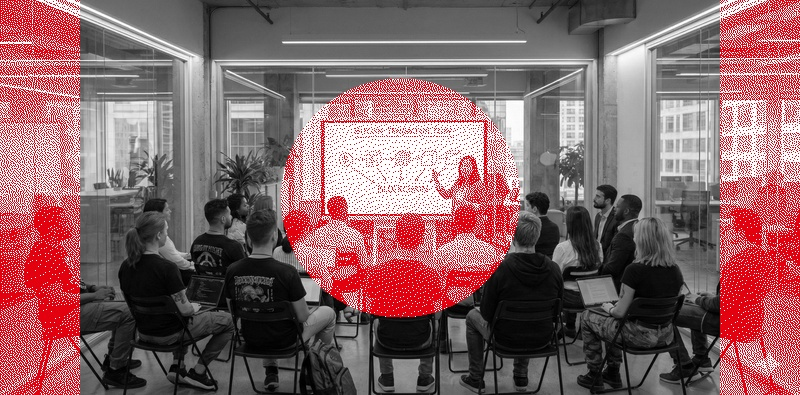
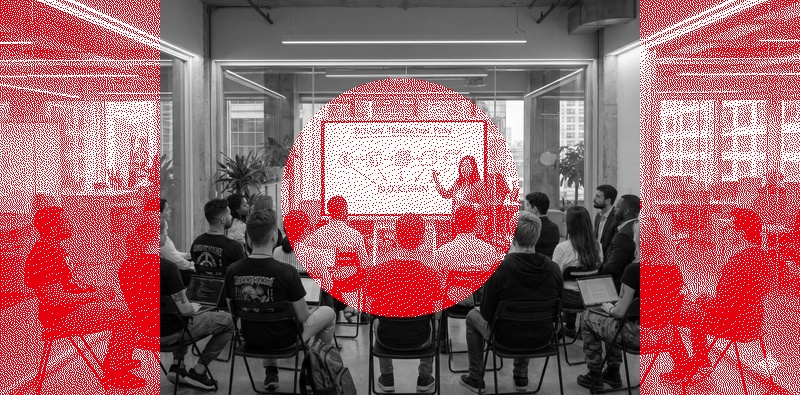
docs: Update Example 2 with wider rectangles and jitter
- Change vertical strips from 0.1 to 0.2 width on each side
- Add jitter value of 33 for subtle randomness
- Update example-shapes.jpg with new parameters
- Enhance description to mention 20% width and jitter effect

diff --git a/README.md b/README.md
@@ -34,12 +34,12 @@ The entire image is converted to grayscale, then the right 33% is dithered in Au
 ### Example 2: Multiple Shapes with Grayscale
 
 ```bash
-./dither.sh --rect=0,0,0.1,1 --rect=0.9,0,1,1 --circle=0.5,0.5,0.2 --grayscale test-image-800px.jpg
+./dither.sh --rect=0,0,0.2,1 --rect=0.8,0,1,1 --circle=0.5,0.5,0.2 --jitter=33 --grayscale test-image-800px.jpg
 ```
 
 ![Shapes Example](example-shapes.jpg)
 
-Creates two vertical strips on the edges plus a circle in the center, all on a grayscale background.
+Creates two wider vertical strips on the edges (20% width each) plus a circle in the center, all on a grayscale background. The jitter value of 33 adds subtle randomness to the dithering pattern.
 
 ### Example 3: Subtle Dithering with Dark Background
 
